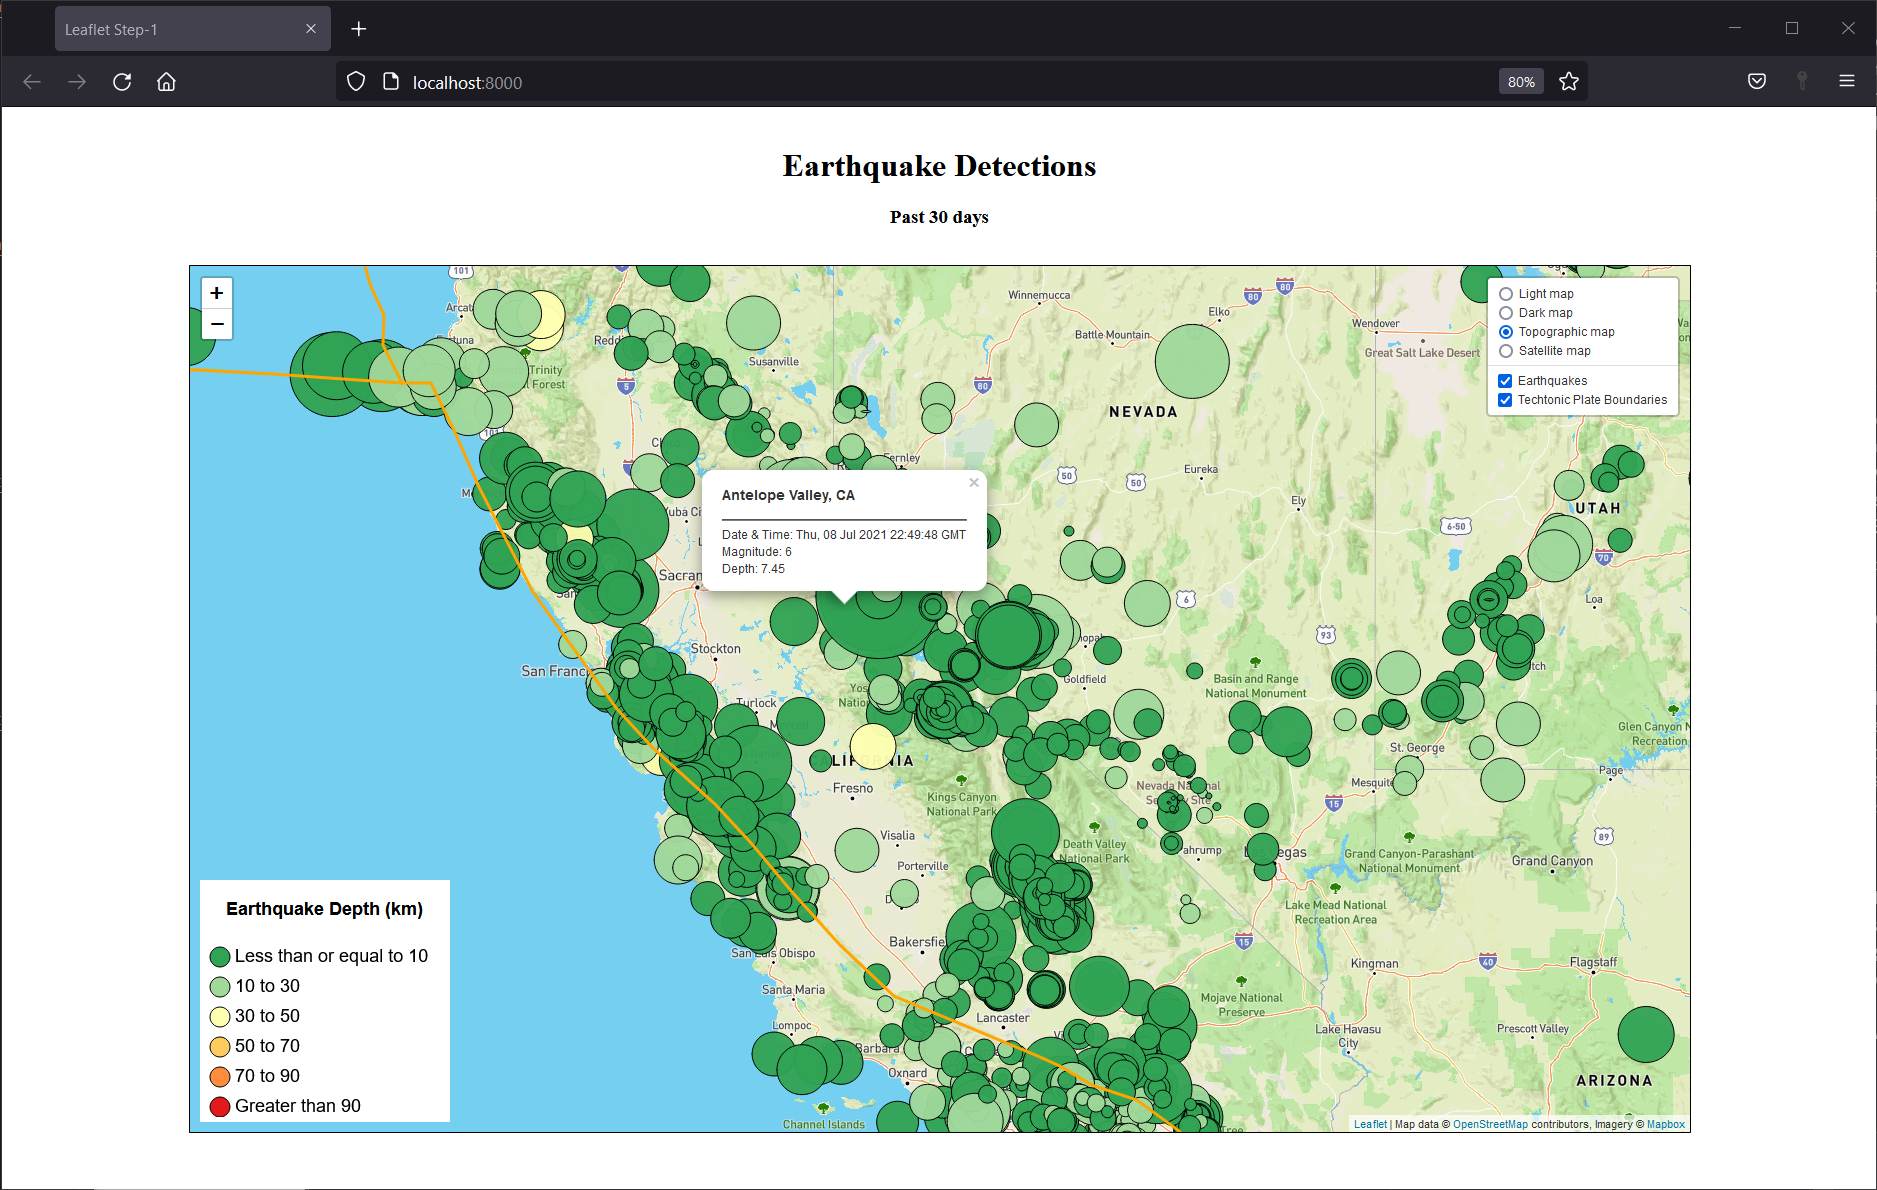
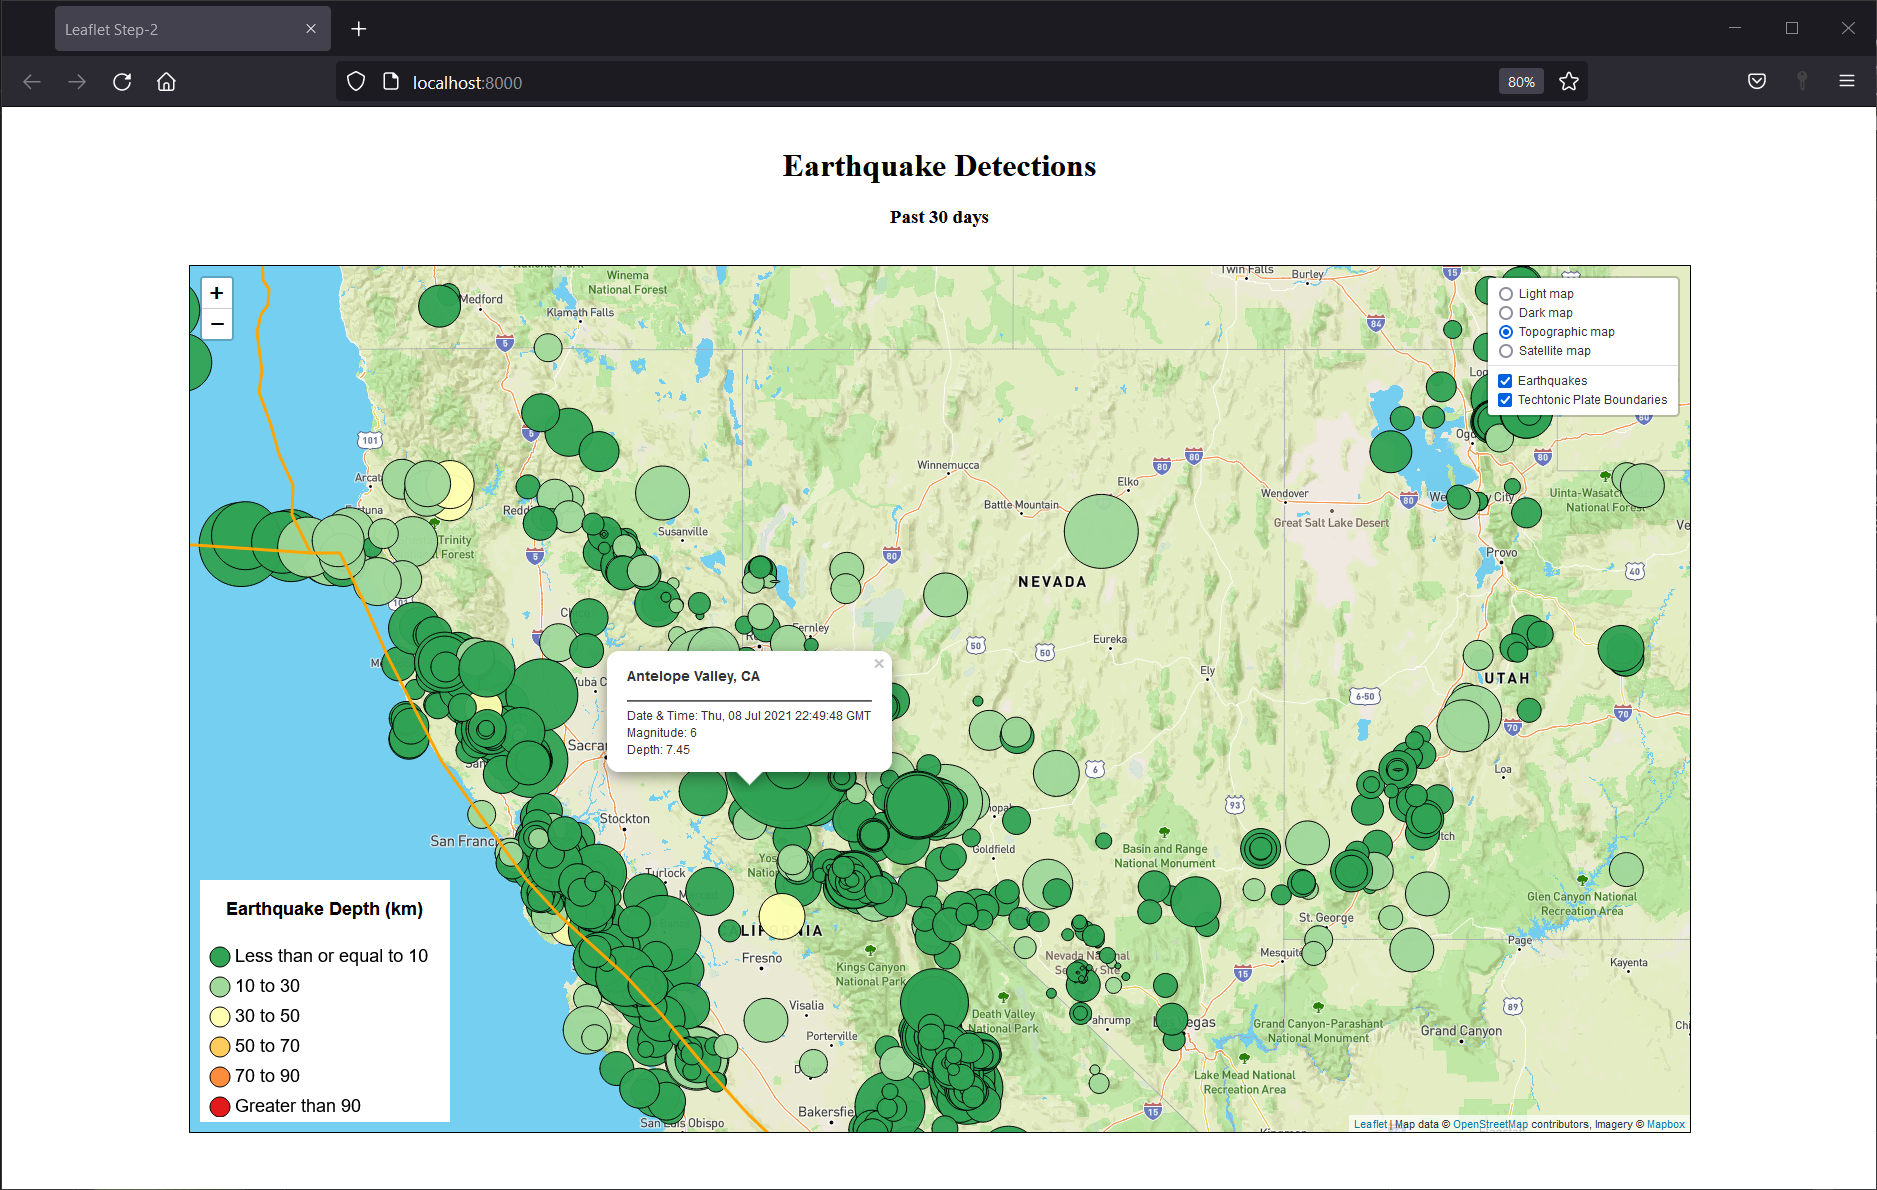
Correct d_Leaflet-Step-2 webpage title and screencaptures

diff --git a/d_Leaflet-Step-2/index.html b/d_Leaflet-Step-2/index.html
@@ -5,7 +5,7 @@
   <meta charset="UTF-8">
   <meta name="viewport" content="width=device-width, initial-scale=1.0">
   <meta http-equiv="X-UA-Compatible" content="ie=edge">
-  <title>Leaflet Step-1</title>
+  <title>Leaflet Step-2</title>
 
   <!-- Leaflet CSS -->
   <link rel="stylesheet" href="https://unpkg.com/leaflet@1.7.1/dist/leaflet.css"
